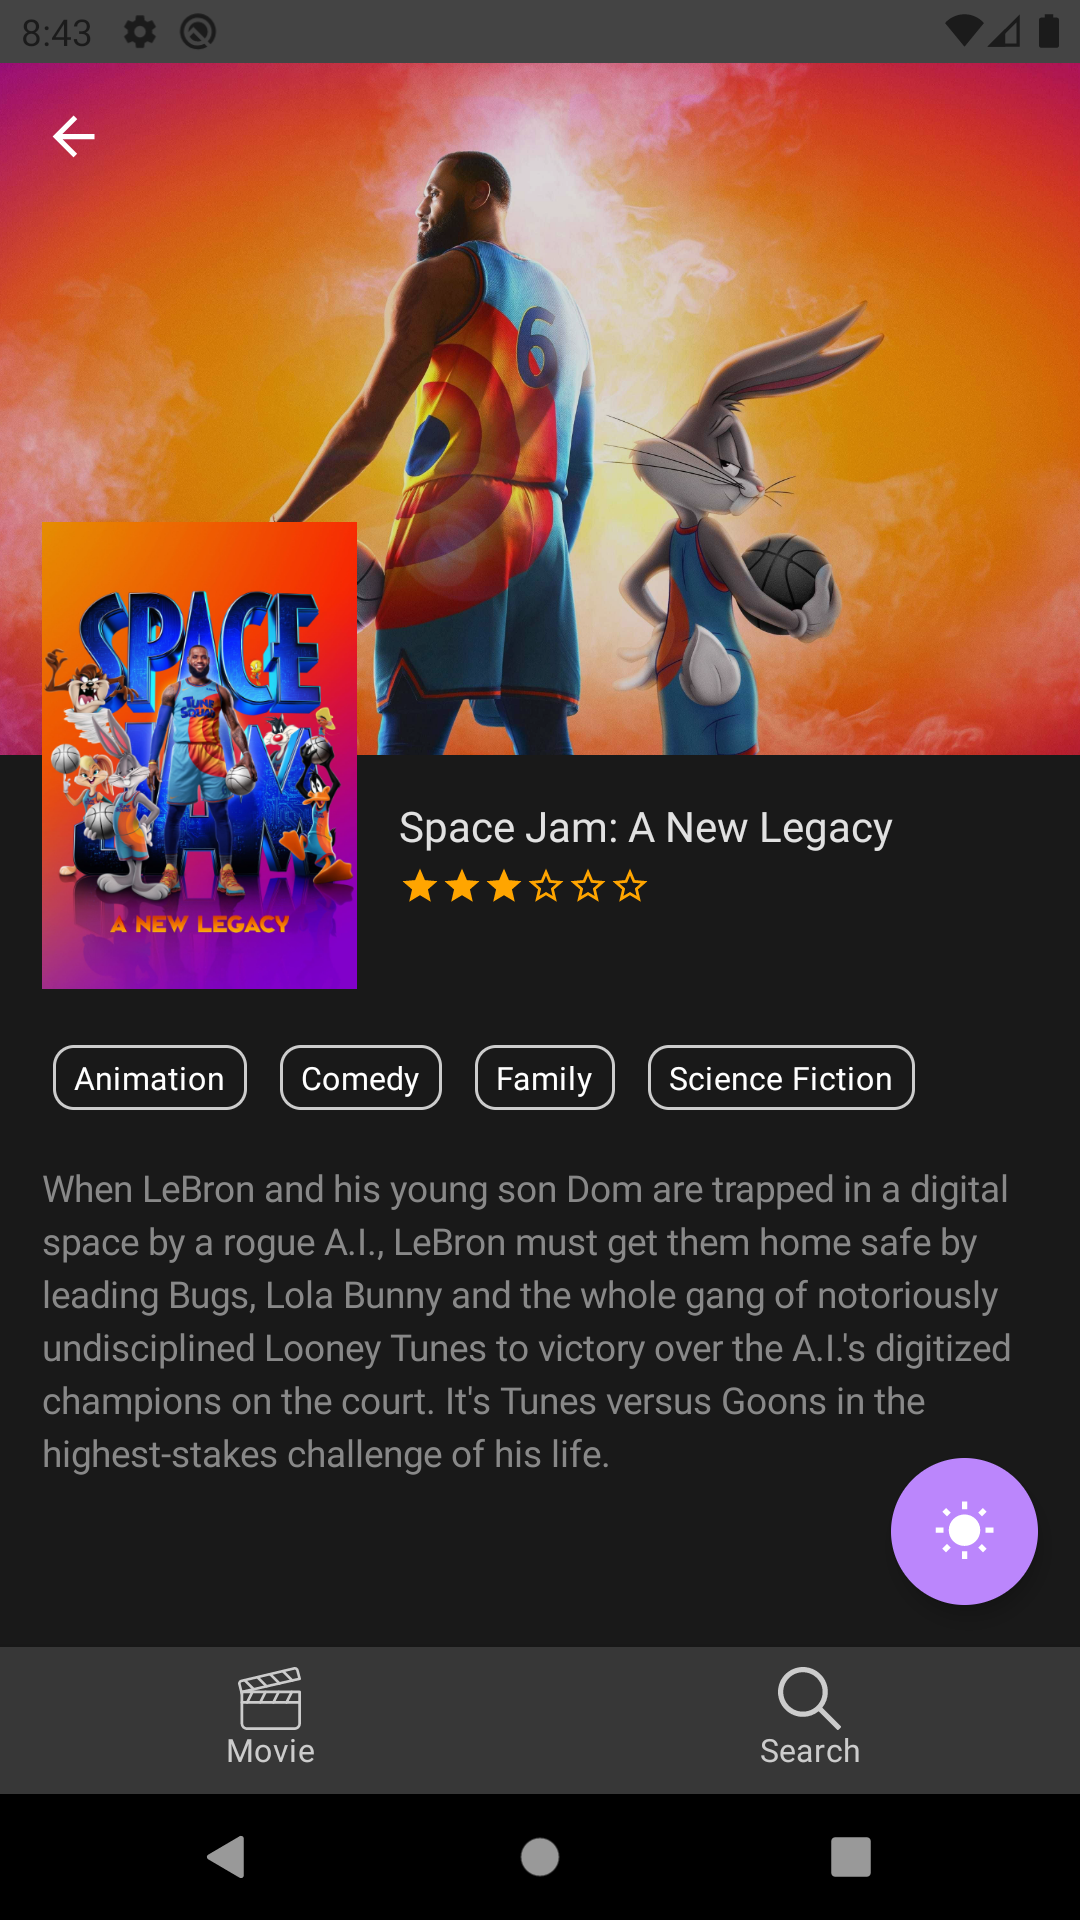
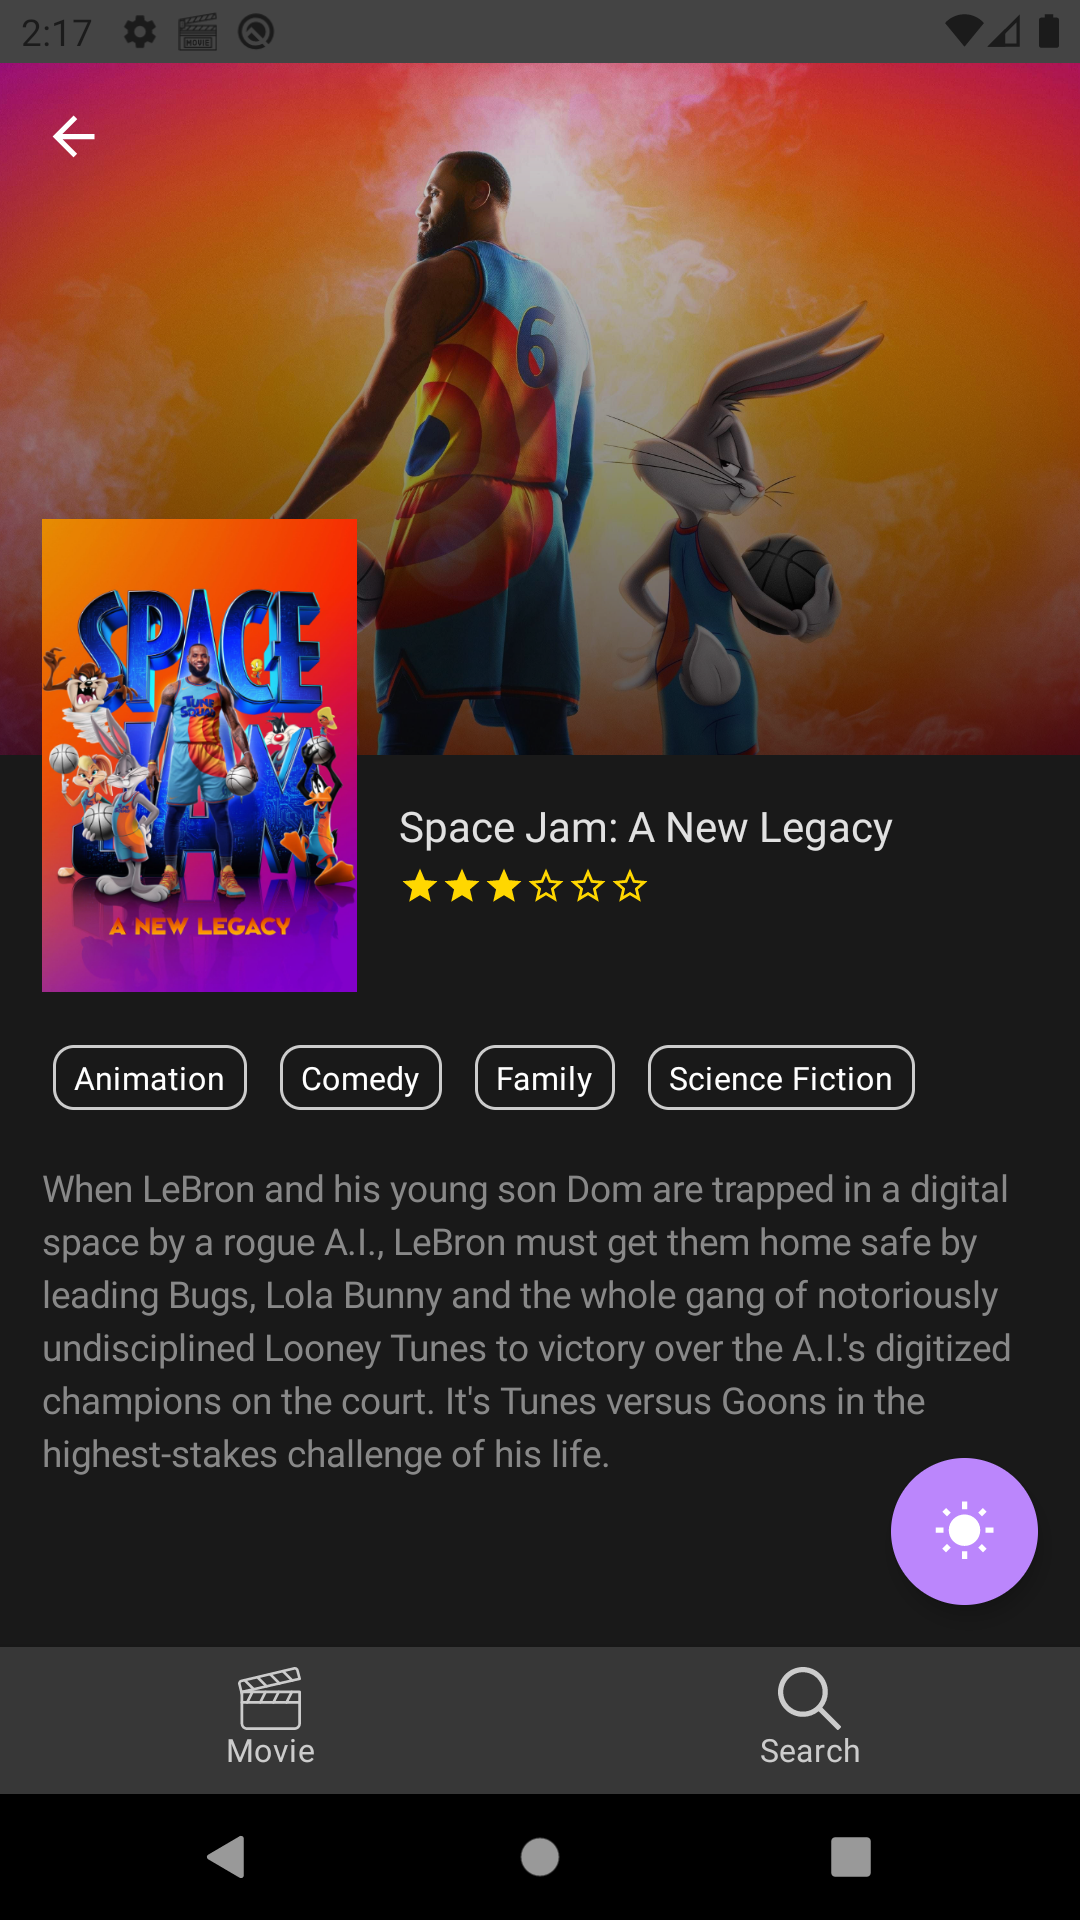
Add gradient box in MovieDetailScreen

diff --git a/app/src/main/java/com/caner/composemoviedb/ui/screen/MovieDetailScreen.kt b/app/src/main/java/com/caner/composemoviedb/ui/screen/MovieDetailScreen.kt
@@ -1,6 +1,5 @@
 package com.caner.composemoviedb.ui.screen
 
-import androidx.compose.foundation.Image
 import androidx.compose.foundation.background
 import androidx.compose.foundation.border
 import androidx.compose.foundation.clickable
@@ -19,17 +18,17 @@ import androidx.compose.ui.Alignment
 import androidx.compose.ui.Modifier
 import androidx.compose.ui.draw.alpha
 import androidx.compose.ui.draw.clip
+import androidx.compose.ui.graphics.Brush
 import androidx.compose.ui.graphics.Color
-import androidx.compose.ui.layout.ContentScale
 import androidx.compose.ui.unit.dp
 import androidx.compose.ui.unit.sp
 import androidx.hilt.navigation.compose.hiltViewModel
 import com.caner.composemoviedb.common.Resource
 import com.caner.composemoviedb.data.remote.MovieGenre
 import com.caner.composemoviedb.presentation.MovieDetailViewModel
+import com.caner.composemoviedb.ui.component.MoviePoster
 import com.caner.composemoviedb.ui.component.RatingBar
-import com.caner.composemoviedb.ui.theme.Typography
-import com.google.accompanist.coil.rememberCoilPainter
+import com.caner.composemoviedb.ui.theme.*
 import com.google.accompanist.flowlayout.FlowRow
 
 @Composable
@@ -85,21 +84,28 @@ fun DetailScreen(
 
 @Composable
 fun MovieBackdropSection(backdrop: String?, navigateUp: () -> Unit) {
-    val backdropPoster =
-        rememberCoilPainter(
-            request = backdrop,
-            fadeIn = true
+    Box(
+        modifier = Modifier
+            .fillMaxWidth()
+            .fillMaxHeight(0.4f)
+    ) {
+        MoviePoster(
+            poster = backdrop, modifier = Modifier
+                .fillMaxSize()
+                .alpha(0.85f)
         )
 
-    Box {
-        Image(
-            painter = backdropPoster,
-            contentScale = ContentScale.Crop,
-            contentDescription = null,
+        Box(
             modifier = Modifier
-                .fillMaxWidth()
-                .fillMaxHeight(0.4f)
-                .alpha(0.85f)
+                .fillMaxSize()
+                .background(
+                    Brush.verticalGradient(
+                        colors = listOf(
+                            BLACK_TRANSPARENT,
+                            BLACK_TRANSPARENT_60
+                        )
+                    )
+                )
         )
 
         Icon(
@@ -108,6 +114,7 @@ fun MovieBackdropSection(backdrop: String?, navigateUp: () -> Unit) {
             contentDescription = null,
             modifier = Modifier
                 .padding(16.dp)
+                .align(Alignment.TopStart)
                 .clickable {
                     navigateUp()
                 }
@@ -118,16 +125,8 @@ fun MovieBackdropSection(backdrop: String?, navigateUp: () -> Unit) {
 @Composable
 fun MovieTopSection(poster: String?, title: String) {
     Row(modifier = Modifier.fillMaxWidth()) {
-        val painter =
-            rememberCoilPainter(
-                request = poster,
-                fadeIn = true
-            )
-
-        Image(
-            painter = painter,
-            contentDescription = null,
-            modifier = Modifier
+        MoviePoster(
+            poster = poster, modifier = Modifier
                 .offset(y = (-90).dp)
                 .padding(start = 16.dp)
                 .width(120.dp)

diff --git a/app/src/main/java/com/caner/composemoviedb/ui/component/RatingBar.kt b/app/src/main/java/com/caner/composemoviedb/ui/component/RatingBar.kt
@@ -1,6 +1,5 @@
 package com.caner.composemoviedb.ui.component
 
-import android.util.Log
 import androidx.compose.foundation.clickable
 import androidx.compose.foundation.layout.*
 import androidx.compose.foundation.lazy.LazyRow
@@ -44,7 +43,7 @@ fun RatingBar(
                     item,
                     isLargeRating
                 ) { newRating ->
-                    Log.v("", "rating is $newRating")
+                    onRatingChanged(newRating)
                 }
             }
         }
@@ -75,11 +74,10 @@ fun RatingItem(
         } else {
             painterResource(id = R.drawable.ic_baseline_star_outline_24)
         },
-        tint = colorResource(id = R.color.orange),
+        tint = colorResource(id = R.color.gold),
         contentDescription = null,
         modifier = baseModifier
             .padding(padding)
             .size(size)
     )
-
 }

diff --git a/app/src/main/java/com/caner/composemoviedb/ui/theme/Color.kt b/app/src/main/java/com/caner/composemoviedb/ui/theme/Color.kt
@@ -10,4 +10,6 @@ val Black1 = Color(0xFF191919)
 val Black2 = Color(0xFF3b3b3b)
 val DIRTY_WHITE = Color(0xFFf9f9f9)
 val DARK_WHITE = Color(0xFFf2f2f2)
-val GRAY500 = Color(0xFFa6a6a6)
+
+val BLACK_TRANSPARENT = Color(0x00000000)
+val BLACK_TRANSPARENT_60 = Color(0x99000000)
